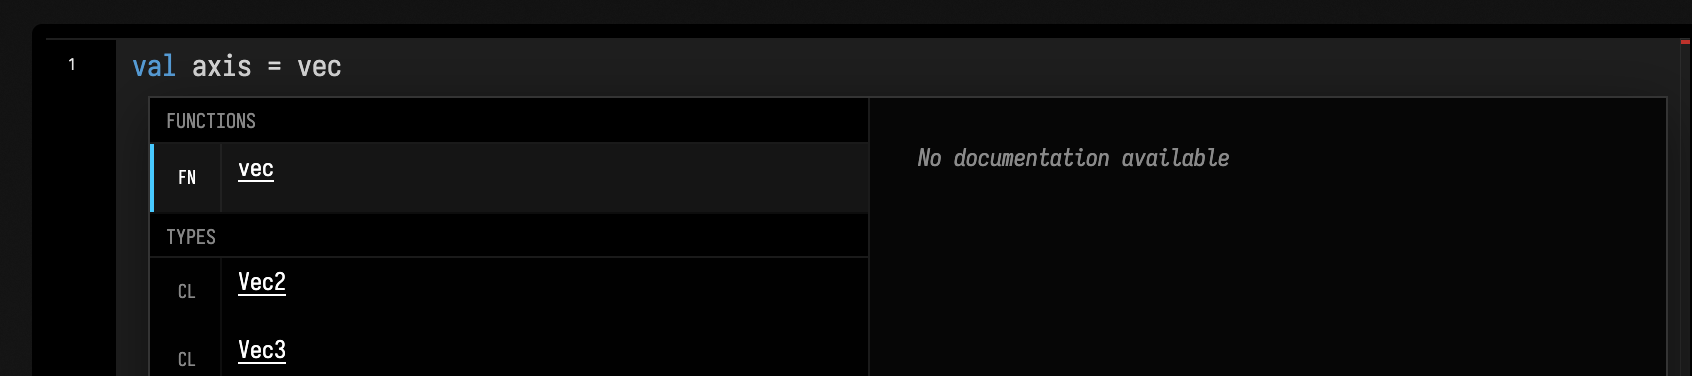
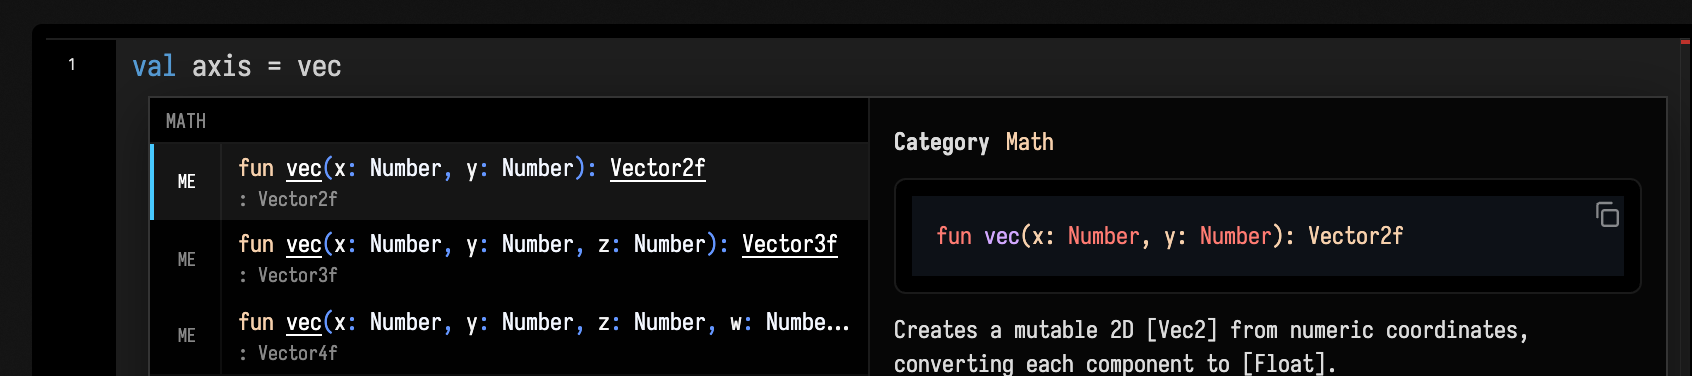
fix(docs): headless autocomplete captures show the real documented completion
The capture only ever showed the client's instant quick-stubs (bare `vec`,
"No documentation available"), never the enriched type-based completion + KDoc.

Root cause: the `drive` fragment runs on the main runloop thread, and the
driver's pause/waitForSelector did Thread.sleep on it — freezing the loop. The
`complete` RPC also runs on the main runloop, so it was starved until the script
ended (after the screenshot). AI completions run on Dispatchers.IO, which is why
they showed and base didn't. A real browser leaves the runloop idle after
Ctrl+Space, which is why it completes there in ~2s.

Fix (two parts, both required):
- DocsUiDriver.pause/waitForSelector now pump the runloop (Framer.frame()) while
  waiting when on the main thread — reproducing an idle editor so the queued
  completion RPC actually runs — else plain sleep (recorder-only drives).
- The pump re-enters frame(), so the K1 completion delegate's heavy first
  bootstrap must not fire inside it (re-entrant compile corrupts K1 analysis
  state: "Rewrite at slice PACKAGE_TO_FILES", a hang). Added
  KotlinScriptEngine.warmCompletion() (KotlinInterface2 builds the delegate); the
  drive op warms it up front on the non-reentrant runloop when the op's
  warmCompletion flag is set.

docs_hooks.py: `warm-completion=true` capture=ui fence attr → drive_op
warmCompletion; added region/clipSelector/warmCompletion to the cache digest.
survivalGuide + aiFeatures autocomplete fences opt in and wait for the real doc
[…]

diff --git a/src/jvmMain/kotlin/afield/docs/screenshot.kt b/src/jvmMain/kotlin/afield/docs/screenshot.kt
@@ -1510,25 +1510,54 @@ class DocsUiDriver internal constructor(
     /**
      * Block until [selector] is visible (or [timeoutMs] elapses), so a capture waits for an
      * async panel to populate instead of guessing a fixed pause. E.g. wait for
-     * `.afield-suggest-row` after Control+Space so autocomplete results have rendered.
+     * `text=Creates a mutable` after Control+Space so the autocomplete docs have rendered.
      * Swallows the timeout — the caller captures whatever state exists.
+     *
+     * Polls (rather than one blocking `waitFor`) and pumps the runloop between polls via [idle],
+     * so content that only appears once a main-runloop RPC resolves — the autocomplete popup and
+     * its docs arrive from the `complete` handler on the main runloop — is not deadlocked by a
+     * blocking wait on that same thread.
      */
     fun waitForSelector(selector: String, timeoutMs: Double = 15000.0) {
-        runBlocking(playwrightDispatcher) {
-            runCatching {
-                pageProvider().locator(selector).first().waitFor(
-                    com.microsoft.playwright.Locator.WaitForOptions()
-                        .setState(com.microsoft.playwright.options.WaitForSelectorState.VISIBLE)
-                        .setTimeout(timeoutMs)
-                )
-            }
+        val deadline = System.currentTimeMillis() + timeoutMs.toLong()
+        while (System.currentTimeMillis() < deadline) {
+            val visible = runCatching {
+                runBlocking(playwrightDispatcher) {
+                    pageProvider().locator(selector).first().isVisible()
+                }
+            }.getOrDefault(false)
+            if (visible) return
+            idle(120L)
         }
     }
 
     // Named `pause` rather than `wait` because `fun wait(Long)` would collide with
-    // java.lang.Object.wait(long). Sleeps the *calling* thread, so the recorder loop
-    // on the Playwright thread keeps grabbing frames during the pause.
-    fun pause(ms: Long) { if (ms > 0) Thread.sleep(ms) }
+    // java.lang.Object.wait(long).
+    fun pause(ms: Long) { idle(ms) }
     fun pause(ms: Int) = pause(ms.toLong())
     fun pause(ms: Double) = pause(ms.toLong())
+
+    /**
+     * Wait [ms] without freezing the main runloop. The drive fragment runs *on* the main runloop
+     * thread (inside `Framer.frame()`), so a bare `Thread.sleep` would stall the loop and starve
+     * everything queued on it — most importantly the `complete`/`resolve-completion` RPCs behind a
+     * live Ctrl+Space. Pumping the runloop instead reproduces an idle loop: the state a real user
+     * leaves the editor in after triggering autocomplete, which is when the popup populates. This
+     * re-enters `frame()`, so any *heavy* main-runloop compile (the K1 completion bootstrap) must
+     * already be done before we get here — the drive op warms it up front for exactly this reason.
+     * Off the main thread (e.g. a recording-only drive) a plain sleep is correct and lets the
+     * off-thread recorder keep grabbing frames.
+     */
+    private fun idle(ms: Long) {
+        if (ms <= 0) return
+        if (Runloop.isMainThread) {
+            val deadline = System.currentTimeMillis() + ms
+            while (System.currentTimeMillis() < deadline) {
+                Runloop.runLoop.main.frame()
+                Thread.sleep(2L)
+            }
+        } else {
+            Thread.sleep(ms)
+        }
+    }
 }

diff --git a/src/jvmMain/kotlin/afield/operation_transcript.kt b/src/jvmMain/kotlin/afield/operation_transcript.kt
@@ -11,6 +11,7 @@ import org.yaml.snakeyaml.Yaml
 import java.io.File
 import java.time.Instant
 import java.util.UUID
+import kotlin.system.measureTimeMillis
 
 object OperationTranscript {
     private const val COALESCE_FRAMES = 12L
@@ -1320,6 +1321,25 @@ object OperationTranscript {
                     ?: box("__docs_drive__", createIfMissing = true, initIfCreated = true, root = info)
                 val driver = DocsUiDriver { globalPlaywriteContext ?: error("Playwright page unavailable") }
                 target.properties["__docsUiDriver"] = driver
+
+                // Completion/autocomplete captures trigger a real Ctrl+Space against this freshly
+                // created box. The completion runs on the main runloop, but the driver fragment
+                // below also runs there and pumps the runloop while it waits — so the K1 completion
+                // delegate MUST already be built by the time the scripted completion fires. If its
+                // heavy first bootstrap fired from inside the pumped wait it would re-enter the K1
+                // engine mid-compile and corrupt it. Warm it here first, on the non-reentrant
+                // runloop, so the scripted completion is a light, safe, reused compile. Gated: only
+                // completion captures pay the warm-up cost.
+                if (payload["warmCompletion"].asBooleanOrDefault(false)) {
+                    val warmMs = measureTimeMillis {
+                        runCatching {
+                            runBlocking { inMain { target.ki.warmCompletion() }.join() }
+                        }.onFailure {
+                            lprintln("warning,docs", "drive warmCompletion failed: ${it.javaClass.simpleName}: ${it.message}")
+                        }
+                    }
+                    lprintln("info,docs", "drive warmCompletion for box=${target.id} took ${warmMs}ms")
+                }
 
                 val videoPath = payload["video"]?.toString()?.takeIf { it.isNotBlank() }
                 val screenshotPath = payload["screenshot"]?.toString()?.takeIf { it.isNotBlank() }

diff --git a/src/jvmMain/kotlin/afield/KotlinInterface2.kt b/src/jvmMain/kotlin/afield/KotlinInterface2.kt
@@ -534,6 +534,17 @@ class KotlinInterface2(
         return k1CompletionDelegate().complete(s, cursor)
     }
 
+    /**
+     * Build the K1 completion delegate ahead of the first real completion. The bootstrap is a
+     * full intro+preamble compile (~seconds, longer the colder the JVM's K1 infra). If it instead
+     * fires lazily from inside a runloop-pumping wait it re-enters the K1 engine mid-compile and
+     * corrupts its analysis state (a "Rewrite at slice PACKAGE_TO_FILES" error). Warming here, on
+     * the non-reentrant runloop before any such wait, keeps every later completion light and safe.
+     */
+    override suspend fun warmCompletion() {
+        k1CompletionDelegate()
+    }
+
     private var k1CompletionDelegate: KotlinInterface? = null
     private var k1CompletionDelegateBootstrapped = false
     private var k1CompletionDelegatePreambleFingerprint: Int? = null

diff --git a/src/jvmMain/kotlin/afield/KotlinScriptEngine.kt b/src/jvmMain/kotlin/afield/KotlinScriptEngine.kt
@@ -91,6 +91,15 @@ interface KotlinScriptEngine {
 
     suspend fun complete(s: String, cursor: Int): CompletionResult
 
+    /**
+     * Eagerly build whatever machinery [complete] needs (for K2 this is the K1 completion
+     * delegate — a full intro+preamble compile). Doing it up front, on the same main-runloop
+     * dispatcher [complete] uses, gets the one heavy compile out of the way outside any
+     * re-entrant runloop pump, so later completions are light and single-threaded-safe.
+     * Idempotent; a no-op for engines with no lazy completion bootstrap.
+     */
+    suspend fun warmCompletion() {}
+
     fun completeAndWait(s: String, cursor: Int = s.length): CompletionResult
 
     fun applyMacros(box: Box, s: String, skipMacros: Set<String> = emptySet(), previewOnly: Boolean = false): String

diff --git a/public/docs_hooks.py b/public/docs_hooks.py
@@ -169,6 +169,7 @@ class RunnerOptions:
     fps: int  # video frame rate (default 30)
     region: str  # for capture="ui": what the drive recording/still is clipped to
     clip_selector: str | None  # for capture="ui": clip to a CSS selector (overlays not backed by a box)
+    warm_completion: bool  # for capture="ui": pre-warm the K1 completion engine (autocomplete captures)
     hidden: bool
     language_key: str
 
@@ -1586,6 +1587,7 @@ def parse_runner_options(*, runner_name: str, open_line: str, page_path: Path, l
         fps=int(parse_float(first_attr(attrs, "fps"), default=30.0)),
         region=region,
         clip_selector=first_attr(attrs, "clip-selector", "clip_selector", "clipSelector"),
+        warm_completion=parse_bool(first_attr(attrs, "warm-completion", "warm_completion", "warmCompletion"), default=False),
         hidden=parse_bool(first_attr(attrs, "hidden", "hide-source", "hide_source"), default=False),
         language_key=fence_language_key(open_line=open_line, fence_name=runner_name),
     )
@@ -1959,6 +1961,9 @@ def options_digest_payload(options: RunnerOptions) -> dict[str, Any]:
         "video": options.video,
         "duration": options.duration,
         "fps": options.fps,
+        "region": options.region,
+        "clipSelector": options.clip_selector,
+        "warmCompletion": options.warm_completion,
     }
     if options.wait_output:
         payload.update({
@@ -2724,6 +2729,8 @@ def build_backdoor_command(
             drive_op["captureUid"] = capture_uid
         if options.clip_selector:
             drive_op["clipSelector"] = options.clip_selector
+        if options.warm_completion:
+            drive_op["warmCompletion"] = True
         transcript_name = f"{safe_transcript_id(options.box_name)}_ui_drive"
         transcript = {
             "name": transcript_name,

diff --git a/dev_docs/agents/OPERATION_TRANSCRIPT.md b/dev_docs/agents/OPERATION_TRANSCRIPT.md
@@ -83,7 +83,7 @@ any of `box` / `uid` / `id` / `target`.
 | `await` (`sync`, `settle`, `wait-pending`) | **Barrier**: drain all pending fragments/launches | `wait: pending` |
 | `save` (`save-document`, `save-as`) | Persist the live boxes to a `metadata.edn` document | `path` (or `to`/`fn`/`document`) |
 | `delete` (`tombstone`) | Tombstone a box (undo revives) | `box` |
-| `drive` (`drive-ui`, `playwright`) | Run a Kotlin script that drives the live UI via Playwright (keypresses/clicks), optionally recording an `.mp4` and/or a still | `script`, `video`, `screenshot`, `capture`, `captureUid`, `clipSelector`, `fps`, `padding` |
+| `drive` (`drive-ui`, `playwright`) | Run a Kotlin script that drives the live UI via Playwright (keypresses/clicks), optionally recording an `.mp4` and/or a still | `script`, `video`, `screenshot`, `capture`, `captureUid`, `clipSelector`, `fps`, `padding`, `warmCompletion` |
 
 Undo (`macro undo <name>`) reverses supported ops: `create`↔tombstone, `edit` swaps
 `from`/`to`, `connect`↔`disconnect`, `launch`→`stop`, etc. `execute`, `wait`, `await`,
@@ -118,18 +118,31 @@ Capture the command palette (an overlay — clip to the panel selector, not a bo
 `DocsUiDriver` methods: `type(text)`, `press/key/down/up(key)`, `click(uid)`,
 `clickSelector(css)`, `hover(uid)`/`hoverSelector(css)`, `drag(uid, dx, dy, steps, hold)`,
 `mouseUp()`, `eval(js)`, `openEditor(uid)`, `shot(path)`, `shotClip(path, css, padding)`,
-`waitForSelector(css, timeoutMs)`, `pause(ms)`. `pause` sleeps the calling thread (so the
-recorder keeps capturing frames); it is deliberately not named `wait`. The resolved output paths
-are bound in scope as `out` and `vid`.
+`waitForSelector(css, timeoutMs)`, `pause(ms)`. It is deliberately not named `wait` (collides with
+`Object.wait`). The resolved output paths are bound in scope as `out` and `vid`.
+
+The drive fragment runs *on the main runloop thread*, so `pause`/`waitForSelector` must not simply
+`Thread.sleep` — that would freeze the loop and starve everything queued on it, most importantly
+the `complete` RPC behind a live `Control+Space` (which runs on the main runloop). Both instead
+**pump the runloop** while waiting (draining queued main work), reproducing an idle editor — the
+state a real user leaves after triggering autocomplete, which is when the popup populates. Off the
+main thread (a recording-only drive) they fall back to a plain sleep so the off-thread recorder
+keeps grabbing frames.
 
 When `clipSelector` is set the op auto-captures the clip *inside* the script (overlays close on
 blur before the op's own capture would run). `.afield-palette` is the full-screen backdrop;
 `.afield-palette-shell` is the panel you want.
 
-For autocomplete, `Control+Space` opens the popup; the first completion on a cold box compiles for
-a few seconds, so `ui.waitForSelector(".afield-suggest-row", 15000.0)` before capturing rather than
-guessing a pause. (Base completions render immediately; AI completions merge in later and no longer
-block the popup.)
+**Autocomplete captures.** `Control+Space` opens the popup; the enriched type-based items and their
+KDoc come from the `complete` RPC on the main runloop. Set **`warmCompletion: true`** on the op for
+any capture that triggers a completion: it builds the K1 completion engine up front, on the
+non-reentrant runloop, *before* the fragment starts pumping. This is required for correctness, not
+just speed — the completion engine's first bootstrap is a heavy compile, and if it fired from inside
+a runloop-pumping wait it would re-enter the K1 engine mid-compile and corrupt its analysis state
+(`Rewrite at slice PACKAGE_TO_FILES`), hanging the completion. With it warm, wait for the real
+content — e.g. `ui.waitForSelector("text=Creates a mutable", 15000.0)` for `vec`'s doc, not just a
+`.afield-suggest-row` — so the capture shows the documented result rather than the instant
+quick-stubs. (Base and AI completions both render without the other blocking the popup.)
 
 ### create
 

diff --git a/public/docs/survivalGuide.md b/public/docs/survivalGuide.md
@@ -62,7 +62,7 @@ For it's main code-writing experience _Field·4_ wraps the [Monaco text editor](
 
 One of the most useful keyboard shortcuts of all is autocomplete — `ctrl-space`. Use it to provide ideas about what you might type, and documentation about those things:
 
-```diffstatic_runner {data-lang=kotlin capture="ui" region="editor" screenshot="assets/autocomplete.png" wait="0" timeout="90" embed=true hidden=true name="autocomplete"}
+```diffstatic_runner {data-lang=kotlin capture="ui" region="editor" warm-completion=true screenshot="assets/autocomplete.png" wait="0" timeout="90" embed=true hidden=true name="autocomplete"}
 ui.eval("window.localStorage.removeItem('field.suggest.recency.v1'); var s=document.createElement('style');s.textContent='.tick_text.ok{display:none !important}';document.head.appendChild(s);return 'setup';")
 ui.openEditor(id)
 ui.pause(700)
@@ -72,10 +72,11 @@ ui.press("Control+A")
 ui.type("val axis = vec")
 ui.pause(300)
 ui.press("Control+Space")
-// Wait (generously, to cover a cold JVM's first-completion compile) for the
-// enriched RPC completion — it replaces the bare quick item and carries the docs.
-ui.waitForSelector("text=fun vec", 30000.0)
-ui.pause(1200)
+// warm-completion=true built the completion engine up front, so the enriched RPC
+// result — the type-based completions and their KDoc — arrives promptly. Wait for
+// the documentation itself (not just the item) so the capture shows the doc panel.
+ui.waitForSelector("text=Creates a mutable", 15000.0)
+ui.pause(1000)
 ```
 
 With AI support enabled, this will include up to 3 AI generated suggests of what you might type next. These are more likely to be incorrect (in the sense that completions generated by type-based are generally very, very good); but also more likely to be ambitious and lengthy. Our GLSL completions are, in particular, often exactly what you want.

diff --git a/public/docs/aiFeatures.md b/public/docs/aiFeatures.md
@@ -42,7 +42,7 @@ Green lines are additions and red deletions. This may include changes to other p
 
 `ctrl-space` opens Field's custom completion panel. Field typically does a type-based analysis of what can complete here (Kotlin's internal compiler for Kotlin, the Jedi package for Python etc.); in the background it also fires off a request for up to 3 AI completions and updates the same FieldSuggest list when they arrive:
 
-```diffstatic_runner {data-lang=kotlin capture="ui" region="editor" screenshot="assets/ai-autocomplete.png" wait="0" timeout="90" embed=true hidden=true name="ai-autocomplete"}
+```diffstatic_runner {data-lang=kotlin capture="ui" region="editor" warm-completion=true screenshot="assets/ai-autocomplete.png" wait="0" timeout="90" embed=true hidden=true name="ai-autocomplete"}
 ui.eval("window.localStorage.removeItem('field.suggest.recency.v1'); var s=document.createElement('style');s.textContent='.tick_text.ok{display:none !important}';document.head.appendChild(s);return 'setup';")
 ui.openEditor(id)
 ui.pause(700)
